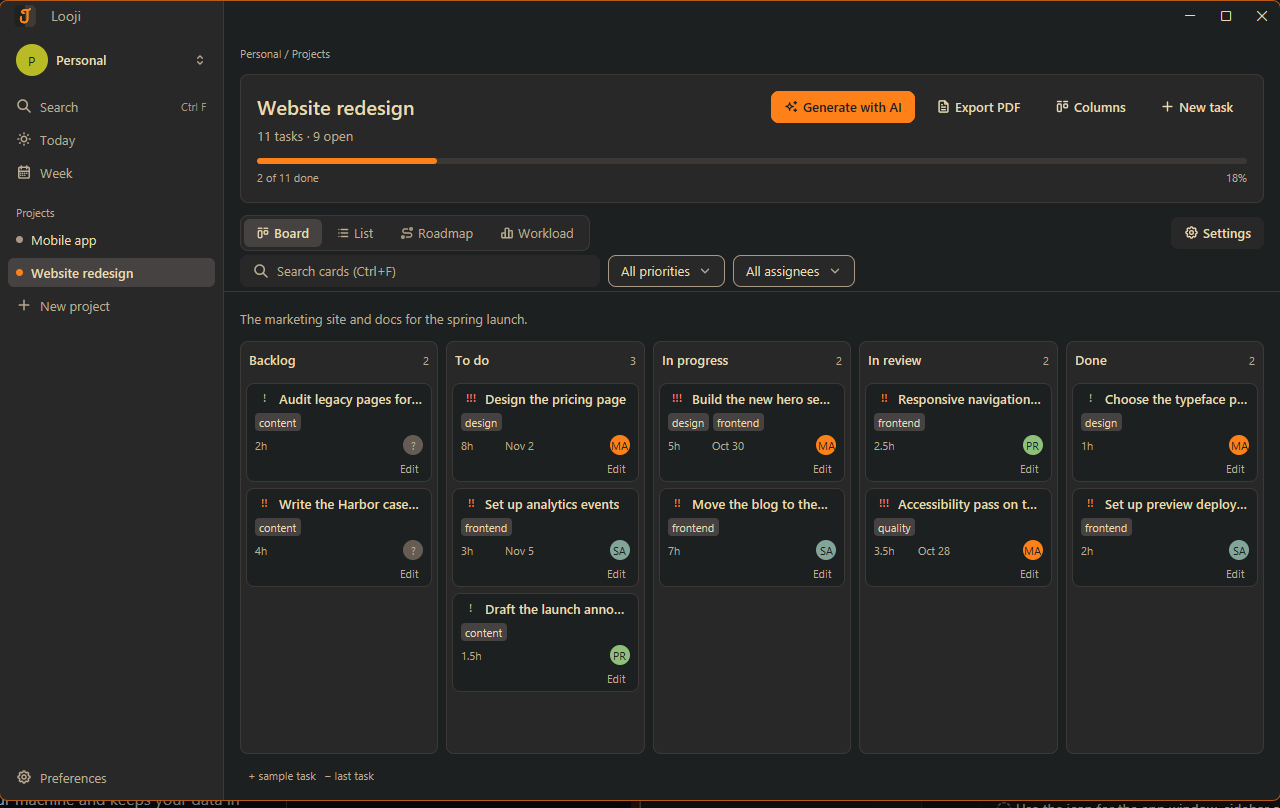
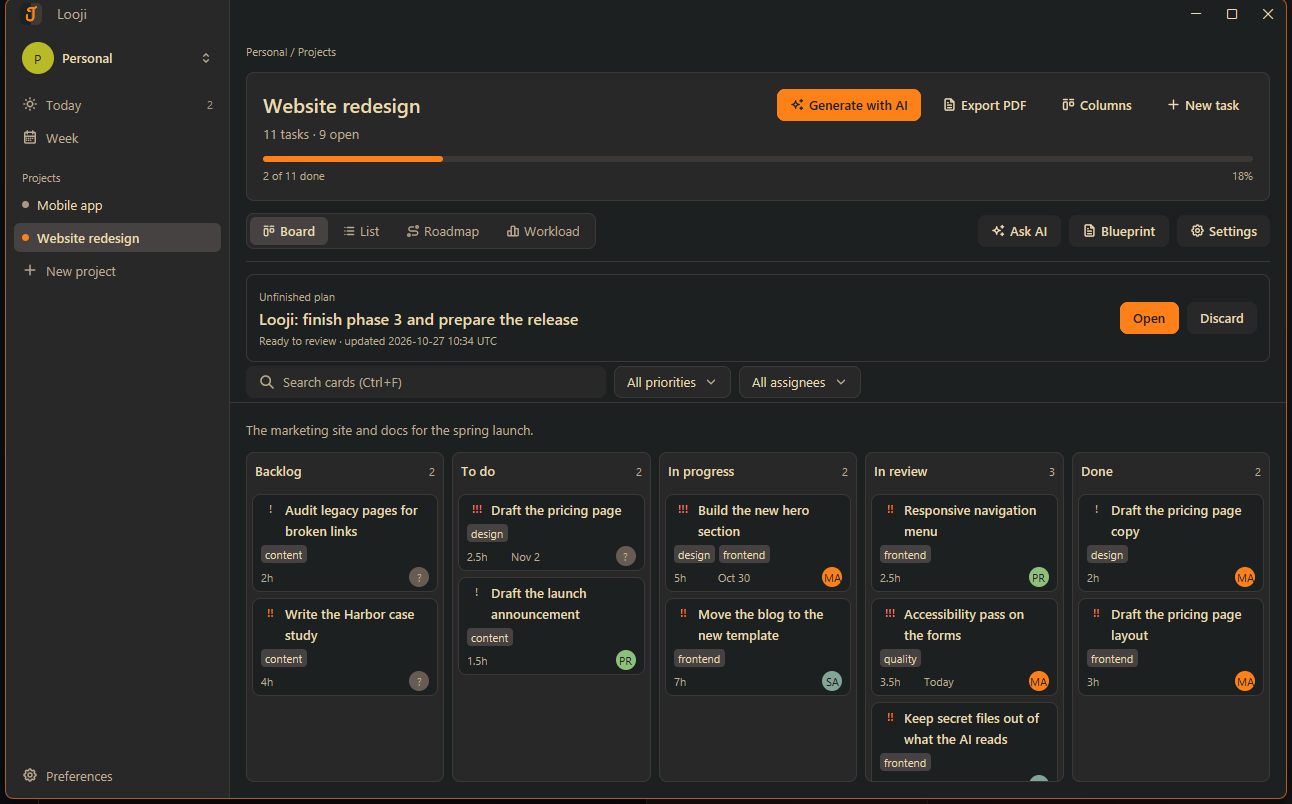
Update the README screenshots and download links for 0.1.0

diff --git a/README.md b/README.md
@@ -20,7 +20,7 @@ looji keeps your workspaces, projects, and tasks on boards you can drag around. 
 about a single task with the code it touches, and export a project as a PDF. Everything is stored in one folder on your
 computer.
 
-![A project board in looji, with five columns and tasks in each](docs/screenshots/board.png)
+![The Website redesign board in looji, with its columns, tasks, and an unfinished AI plan](docs/screenshots/board.png)
 
 ## Features
 
@@ -46,12 +46,12 @@ computer.
 
 <table>
   <tr>
-    <td width="50%"><img src="docs/screenshots/task.png" alt="A task window with its status, priority, assignee, estimate, due date, tags, and history"></td>
-    <td width="50%"><img src="docs/screenshots/project-settings-hours.png" alt="Project settings: working hours, with workdays and start and end times"></td>
+    <td width="50%"><img src="docs/screenshots/task.png" alt="A task window with its status, priority, assignee, estimate, due date, description, attachments, and tags"></td>
+    <td width="50%"><img src="docs/screenshots/blueprint.png" alt="A project blueprint with a wireframe of a sign-in screen, drawn from its element tree"></td>
   </tr>
   <tr>
-    <td width="50%"><img src="docs/screenshots/project-settings-time.png" alt="Project settings: the clock and time zone for this project, or the Preferences choice"></td>
-    <td width="50%"><img src="docs/screenshots/preferences.png" alt="Preferences: the AI provider and model, and the app's clock and time zone"></td>
+    <td width="50%"><img src="docs/screenshots/project-settings-hours.png" alt="Project settings: working days and start and end times, with a preview of when a sample task is due"></td>
+    <td width="50%"><img src="docs/screenshots/preferences.png" alt="Preferences: the AI provider and model, and the clock and time zone"></td>
   </tr>
 </table>
 
@@ -61,16 +61,30 @@ New here? Read the [user guide](docs/user-guide.md). It starts with a first task
 
 ## Install
 
-Download `looji-<version>-windows-x64-setup.exe` from the [latest release](https://github.com/loojihq/looji/releases/latest)
-and run it. It installs for your own account and doesn't need administrator rights.
+Download the file for your system from the [v0.1.0 release](https://github.com/loojihq/looji/releases/tag/v0.1.0), or
+from the [latest release](https://github.com/loojihq/looji/releases/latest) for a newer version.
 
-Releases are not yet code-signed, so Windows may show an "unknown publisher" warning. Choose **More info**, then **Run
-anyway**. Each release includes a `SHA256SUMS.txt` so you can check your download.
+| System | Download | Size |
+| --- | --- | --- |
+| Windows 10 or 11, 64-bit | [looji-0.1.0-windows-x64-setup.exe](https://github.com/loojihq/looji/releases/download/v0.1.0/looji-0.1.0-windows-x64-setup.exe) | 15.7 MB |
+| Linux, glibc 2.39 or newer | [looji-0.1.0-linux-x64.AppImage](https://github.com/loojihq/looji/releases/download/v0.1.0/looji-0.1.0-linux-x64.AppImage) | 25.5 MB |
 
-On Linux, download `looji-<version>-linux-x64.AppImage` from the same release, make it executable, and run it. It uses
-the Vulkan, fontconfig, and Wayland or X11 libraries already on your computer. The interface is developed and tested on
-Windows; the AppImage is built but not yet tested on Linux. It doesn't update itself, so download a new one for each
-release.
+**Windows:** run the installer. It installs for your own account and doesn't need administrator rights. Releases are not
+yet code-signed, so Windows may show an "unknown publisher" warning. Choose **More info**, then **Run anyway**.
+
+**Linux:** make the AppImage executable and run it:
+
+```bash
+chmod +x looji-0.1.0-linux-x64.AppImage
+./looji-0.1.0-linux-x64.AppImage
+```
+
+It uses the Vulkan, fontconfig, and Wayland or X11 libraries already on your computer. The interface is developed and
+tested on Windows, and the AppImage has not yet been tested on Linux. It doesn't update itself, so download a new one for
+each release.
+
+Every release includes a [`SHA256SUMS.txt`](https://github.com/loojihq/looji/releases/download/v0.1.0/SHA256SUMS.txt) so
+you can check your download.
 
 ## AI providers
 
